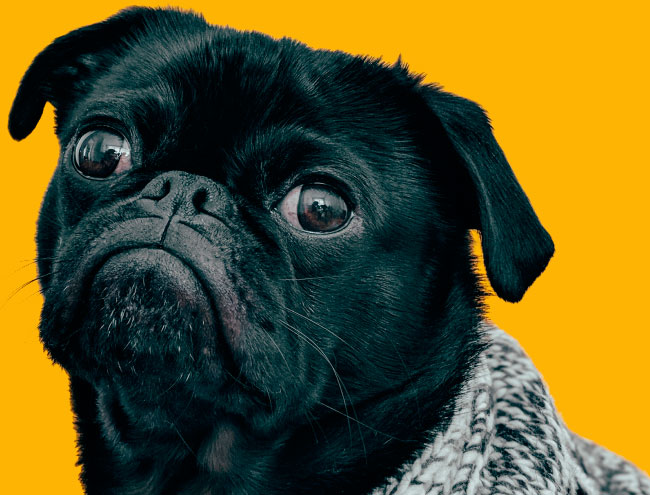
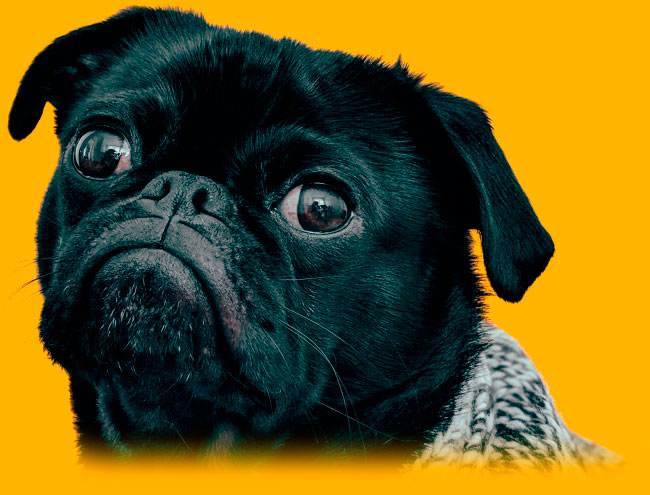
PetShop: add styles main page

diff --git a/PetShop/js/controller.js b/PetShop/js/controller.js
@@ -19,14 +19,14 @@ export default class HangEvents {
     const btnContainer = document.querySelector('.language');
     btnContainer.addEventListener('click', this.switchLang);
 
-   const container = document.querySelector('.slider');
-    container.addEventListener('click', this.showInfo); 
+    const container = document.querySelector('.slider');
+    container.addEventListener('click', this.showInfo);
 
     const cartttt = document.querySelector('.cartttt');
     cartttt.addEventListener('click', this.showCart);
 
     const orderControls = document.querySelector('.slider');
-    orderControls.addEventListener('click', this.handlerCart); 
+    orderControls.addEventListener('click', this.handlerCart);
 
     document.querySelector('.goodsIntoCart').innerText = dataForRendiring.cartOrderAmount.length;
   }
@@ -36,7 +36,6 @@ export default class HangEvents {
   }
 
   static showInfo(e) {
-    console.log(e.target.innerText)
     switch (e.target.innerText) {
       case 'next': {
         LaunchView.cs.createNext(LaunchView.lang, dataForRendiring.filterContainer, dataForRendiring.count);
@@ -69,7 +68,6 @@ export default class HangEvents {
   }
 
   static handlerCart(e) {
-console.log(e.target)
     let check = true,
       data = dataForRendiring.container,
       cart = dataForRendiring.cartOrderAmount;
@@ -185,7 +183,7 @@ console.log(e.target)
   static chooseCategory(e) {
     switch (true) {
       case (e.target.classList.value.includes('all')): {
-     document.body.querySelector('.main__filter').innerHTML = ""; 
+        document.body.querySelector('.main__filter').innerHTML = "";
         dataForRendiring.filterContainer = dataForRendiring.container;
         dataForRendiring.count = 0;
         ViewFilterAll.create();
@@ -194,33 +192,33 @@ console.log(e.target)
       }
       case (e.target.classList.value.includes('cats')): {
         HangEvents.chooseCategoryWorker('cat');
-        ViewFilterCat.createPageChoice(); 
+        ViewFilterCat.createPageChoice();
         break;
       }
       case (e.target.classList.value.includes('dogs')): {
         HangEvents.chooseCategoryWorker('dog');
-        ViewFilterDog.createPageChoice(); 
+        ViewFilterDog.createPageChoice();
         break;
       }
       case (e.target.classList.value.includes('fishes')): {
         HangEvents.chooseCategoryWorker('fish');
-         ViewFilterFish.createPageChoice(); 
+        ViewFilterFish.createPageChoice();
         break;
       }
       case (e.target.classList.value.includes('birds')): {
         HangEvents.chooseCategoryWorker('bird');
-         ViewFilterBird.createPageChoice(); 
+        ViewFilterBird.createPageChoice();
         break;
       }
     }
   }
 
   static chooseCategoryWorker(type) {
-     document.body.querySelector('.main__filter').innerHTML = ""; 
+    document.body.querySelector('.main__filter').innerHTML = "";
     dataForRendiring.filterContainer = dataForRendiring.container
       .filter((el) => el.type == type);
-      dataForRendiring.count = 0;
-      LaunchView.cs.create(LaunchView.lang, dataForRendiring.filterContainer);
+    dataForRendiring.count = 0;
+    LaunchView.cs.create(LaunchView.lang, dataForRendiring.filterContainer);
   }
 
   static filtersCheckbox(e) {
@@ -232,8 +230,8 @@ console.log(e.target)
     }
     dataForRendiring.subFilterContainer = dataForRendiring.filterContainer
       .filter((el) => HangEvents.filtersCheckboxWorker(el));
-      dataForRendiring.count = 0;
-      LaunchView.cs.create(LaunchView.lang, dataForRendiring.subFilterContainer);
+    dataForRendiring.count = 0;
+    LaunchView.cs.create(LaunchView.lang, dataForRendiring.subFilterContainer);
 
   }
   static filtersCheckboxWorker(el) {
@@ -251,8 +249,8 @@ console.log(e.target)
   static filterSearchBar(e) {
     dataForRendiring.subFilterContainer = dataForRendiring.filterContainer
       .filter((el) => el.name.toLowerCase().includes(e.target.value.toLowerCase()));
-      dataForRendiring.count = 0;
-      LaunchView.cs.create(LaunchView.lang, dataForRendiring.subFilterContainer);
+    dataForRendiring.count = 0;
+    LaunchView.cs.create(LaunchView.lang, dataForRendiring.subFilterContainer);
   }
 
   static handlerEnter(e) {
@@ -261,11 +259,11 @@ console.log(e.target)
       LaunchView.rendering(dataForRendiring.container);
     }
   }
-static modalClose(){
-  document.querySelector('.modalPurchase').remove();
-  document.querySelector('.CartCart').classList.toggle("showCart");
-  document.querySelector('.modalPurchaseBack').classList.remove('modalPurchaseBack-show');
-}
+  static modalClose() {
+    document.querySelector('.modalPurchase').remove();
+    document.querySelector('.CartCart').classList.toggle("showCart");
+    document.querySelector('.modalPurchaseBack').classList.remove('modalPurchaseBack-show');
+  }
 }
 
 

diff --git a/PetShop/css/style.css b/PetShop/css/style.css
@@ -8,6 +8,9 @@
     background-color: gray;
     padding: 20px;
     width: 200px;
+    font-size: 20px;
+    border-top-left-radius: 5px;
+    border-top-right-radius: 5px;
 }
 
 .card-wrap {
@@ -37,7 +40,23 @@
     display: block;
     position: absolute;
     top: 100%;
+    left: 30%;
     z-index: 10;
+
+}
+
+.order-controls>button {
+    border-radius: 5px;
+    width: 50px;
+    outline: none;
+}
+
+.order-controls>button:first-of-type {
+    background-color: #008cff;
+}
+
+.order-controls>button:last-of-type {
+    background-color: #b30000;
 }
 
 .showPopup {
@@ -56,7 +75,7 @@
     background-color: aqua;
     padding: 5px;
     border-radius: 50%;
-   
+
 }
 
 .wrapp {
@@ -154,11 +173,13 @@ img {
     font-size: 25px;
     font-family: Arial, Helvetica, sans-serif;
 }
-.modalPurchase__form-abort:hover{
+
+.modalPurchase__form-abort:hover {
     font-weight: 600;
-    color:red;
+    color: red;
     cursor: pointer;
 }
+
 .modalPurchase__form {
     display: flex;
     flex-direction: column;
@@ -239,30 +260,34 @@ img {
 .page-choice {
     display: flex;
 }
+
 .footer__item {
     position: relative;
 }
 
 .footer__item--tel::after,
 .footer__item--adress::after,
-.footer__item--email::after{
+.footer__item--email::after {
     content: '';
     position: absolute;
     display: block;
-    top:-50px;
+    top: -50px;
     left: 20%;
     width: 45px;
     height: 45px;
     background-repeat: no-repeat;
     background-size: contain;
-} 
-.footer__item--tel::after{
+}
+
+.footer__item--tel::after {
     background-image: url(../assets/img/generic/tel.png);
 }
-.footer__item--adress::after{
+
+.footer__item--adress::after {
     background-image: url(../assets/img/generic/adress.png);
 }
-.footer__item--email::after{
+
+.footer__item--email::after {
     background-image: url(../assets/img/generic/email.png);
 }
 
@@ -382,4 +407,38 @@ img {
 .main__start-page-block-fishes,
 .main__start-page-block-header--popular {
     color: black;
+}
+
+.main__start-page-block-img-item {
+    max-width: 250px;
+    padding-top: 20px;
+}
+
+.btn-slider {
+    border: none;
+    background: none;
+    font-size: 0;
+    position: relative;
+    outline: none;
+    cursor: pointer;
+    margin-right:35px;
+}
+
+.btn-slider--next::after,
+.btn-slider--prev::after {
+    content: '';
+    display: block;
+    position: absolute;
+    width: 50px;
+    height: 50px;
+    background-repeat: no-repeat;
+    background-size: contain;
+}
+
+.btn-slider--next::after {
+    background-image: url(../assets/img/generic/next.png);
+}
+
+.btn-slider--prev::after {
+    background-image: url(../assets/img/generic/prev.png);
 }

diff --git a/PetShop/js/view.js b/PetShop/js/view.js
@@ -30,7 +30,6 @@ export class LaunchView {
   }
 }
 
-
 export class ViewComposeSlider {
   constructor(goodsForRending) {
     this.targetElem = document.querySelector('.slider');
@@ -42,19 +41,18 @@ export class ViewComposeSlider {
     this.targetElem.innerHTML = '';
     let parentDiv = document.createElement('div');
     parentDiv.classList.add('wrapp');
-    parentDiv.innerHTML += `<button class="btn-slider">
+    parentDiv.innerHTML += `<button class="btn-slider btn-slider--prev">
     prev
   </button>`
     let dataLength = data.length < 4 ? data.length : 4;
     for (let i = 0; i < dataLength; i++) {
-      console.log(count)
       if (data[count]) {
         parentDiv.appendChild(ViewBuildCard.buildItem(data[count], lang));
         dataForRendiring.count < 19 ?dataForRendiring.count++ : dataForRendiring.count = 0;
         count++
       }
     }
-    parentDiv.innerHTML += `<button class="btn-slider">
+    parentDiv.innerHTML += `<button class="btn-slider btn-slider--next">
     next
   </button>`
  /*  parentDiv.querySelector('.btn-slider').addEventListener('click', HangEvents.showInfo);  */
@@ -492,7 +490,7 @@ class ViewStartPage {
 
     <div class="main__start-page-block main__start-page-block--bird">
             <div class="main__start-page-block-img">
-            <img src='assets/img/generic/papuga.jpg'>
+            <img src='assets/img/generic/papuga.jpg' class="main__start-page-block-img-item" alt="papu">
             </div>
           <div class="main__start-page-block-text">
           <h2 class="main__start-page-block-header">Birds of any breeds and colors</h2>
@@ -543,7 +541,7 @@ class ViewStartPage {
     <button class="main__start-page-block-enterBtn">enter</button>
     </div>
   <div class="main__start-page-block-img">
-  <img src='assets/img/generic/pug.jpg'>
+  <img src="assets/img/generic/pug.jpg" class="main__start-page-block-img-item" alt="pug">
   </div>
 </div>
     `
